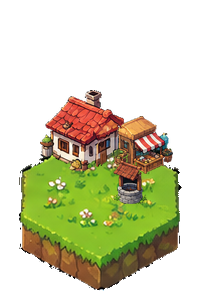
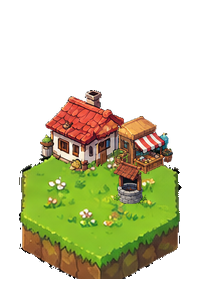
Khớp khung chọn ô với ảnh và thêm hiệu ứng tô sáng ô đang chọn
- Đo lại mặt trên thật của ô (tâm y=192, tỉ lệ dẹt 0.93, hông 34px) nên lưới và ảnh khớp nhau
- Ô đang chọn được tô vàng nhấp nháy và viền đậm, vẽ sau cùng để không bị che
- Bỏ ngọn cây thừa dưới đáy các ô phẳng

Claude-Session: https://claude.ai/code/session_01NNxgZzkCUdo89QeDQ3JDBB

Changed region(s): [[0.39, 0.93, 0.6, 0.99]]

diff --git a/tools/slice_assets.py b/tools/slice_assets.py
@@ -277,6 +277,9 @@ def main():
     for name in ("grass", "grass_flowers", "grass_tall", "field", "water"):
         a = np.array(tiles[name])
         a[:, :, 3] = np.where(sil, a[:, :, 3], 0)
+        # cắt đáy: mặt trên cao ~130px + hông ~36px tính từ mép trên của ô
+        ys = np.nonzero(a[:, :, 3] > 0)[0]
+        a[int(ys.min()) + 168:, :, 3] = 0
         # bỏ mẩu nhỏ dính mép (vd ngọn cây của ô bên dưới)
         m = a[:, :, 3] > 0
         lab, n = ndimage.label(ndimage.binary_erosion(m, iterations=3))
@@ -284,6 +287,13 @@ def main():
             sizes = ndimage.sum(m, lab, range(1, n + 1))
             main = ndimage.binary_dilation(lab == 1 + int(np.argmax(sizes)), iterations=5) & m
             a[:, :, 3] = np.where(main, a[:, :, 3], 0)
+        # xoá các hàng hẹp ở đáy (ngọn cây ô dưới lọt vào)
+        m = a[:, :, 3] > 0
+        widths = m.sum(axis=1)
+        y = m.shape[0] - 1
+        while y > 0 and widths[y] < 0.3 * widths.max():
+            a[y, :, 3] = 0
+            y -= 1
         tiles[name] = Image.fromarray(a, "RGBA")
 
     # ---------- asset tự tạo (ghép + đổi màu) ----------
@@ -343,12 +353,23 @@ def main():
     for name, img in tiles.items():
         img.save(os.path.join(OUT_TILES, name + ".png"))
 
-    a = np.array(tiles["dirt"])[:, :, 3] > 0
-    ys = np.nonzero(a)[0]
-    half_h = ANCHOR[1] - ys.min()
-    depth = int(ys.max() - ANCHOR[1] - half_h)
-    print("face_w", face_w, "half_h", half_h, "squash", round(4 * half_h / face_w / 3 ** 0.5, 3), "depth", depth)
-    meta = {"canvas": [TILE_W, TILE_H], "anchor": list(ANCHOR), "face_w": face_w, "depth": depth,
+    # Đo mặt trên thật của ô dirt: mặt đất sáng, phần hông tối hơn hẳn.
+    d = np.array(tiles["dirt"]).astype(int)
+    ys = np.nonzero(d[:, 100, 3] > 0)[0]
+    top, bottom = int(ys.min()), int(ys.max())
+    bright = d[:, 100, :3].sum(axis=1) / 3
+    face_bottom = top + 20
+    for y in range(top + 20, bottom):
+        if bright[y] < 110 and bright[y + 2] < 110:
+            face_bottom = y
+            break
+    face_h = face_bottom - top
+    center_y = top + face_h / 2.0
+    squash = face_h / (face_w * 3 ** 0.5 / 2)
+    depth = bottom - face_bottom
+    print("face_w", face_w, "face_h", face_h, "center_y", center_y, "squash", round(squash, 3), "depth", depth)
+    meta = {"canvas": [TILE_W, TILE_H], "face_center": [ANCHOR[0], center_y], "face_w": face_w,
+            "face_h": face_h, "squash": round(squash, 3), "depth": depth,
             "tiles": sorted(tiles.keys()), "props": sorted(props.keys())}
     with open(os.path.join(OUT_TILES, "meta.json"), "w", encoding="utf-8") as f:
         json.dump(meta, f, indent=1)

diff --git a/README.md b/README.md
@@ -29,7 +29,7 @@ Chưa làm (theo lộ trình): thời kỳ 2 trở đi, cáp treo, gương thôn
 
 Ô đất và công trình lấy từ sprite sheet `art_source/sheet_village.png`. Script `tools/slice_assets.py` cắt sheet, xoá nền và tạo:
 
-- `assets/tiles/*.png` – ô lục giác đỉnh phẳng, cùng canvas 200×300, tâm mặt trên ở (100, 170). Gồm ô gốc (cỏ, cỏ hoa, cỏ dài, đất, rừng, núi, đá, hồ, ruộng) và **ô tự ghép thêm**: làng, đồn thổ phỉ, rừng thông dày, rừng thu, mỏ đá có thợ, ruộng có cối xay, hồ có bến thuyền, núi tuyết, sương mù, và sẵn cho thời kỳ sau: đất hoang, đất nhiễm độc, mỏ tinh thể.
+- `assets/tiles/*.png` – ô lục giác đỉnh phẳng, cùng canvas 200×300, tâm mặt trên ở (100, 192), mặt trên rộng 164 px, tỉ lệ dẹt 0.93 (xem `assets/tiles/meta.json`). Gồm ô gốc (cỏ, cỏ hoa, cỏ dài, đất, rừng, núi, đá, hồ, ruộng) và **ô tự ghép thêm**: làng, đồn thổ phỉ, rừng thông dày, rừng thu, mỏ đá có thợ, ruộng có cối xay, hồ có bến thuyền, núi tuyết, sương mù, và sẵn cho thời kỳ sau: đất hoang, đất nhiễm độc, mỏ tinh thể.
 - `assets/props/*.png` – nhà, tháp, cối xay, chợ, giếng, tinh thể, bến, cờ, thùng, cây, đá, hoa, hàng rào, đèn…
 
 Muốn thêm/đổi asset: sửa `TILE_BOXES` / `PROP_BOXES` hoặc phần "asset tự tạo" trong script rồi chạy:
